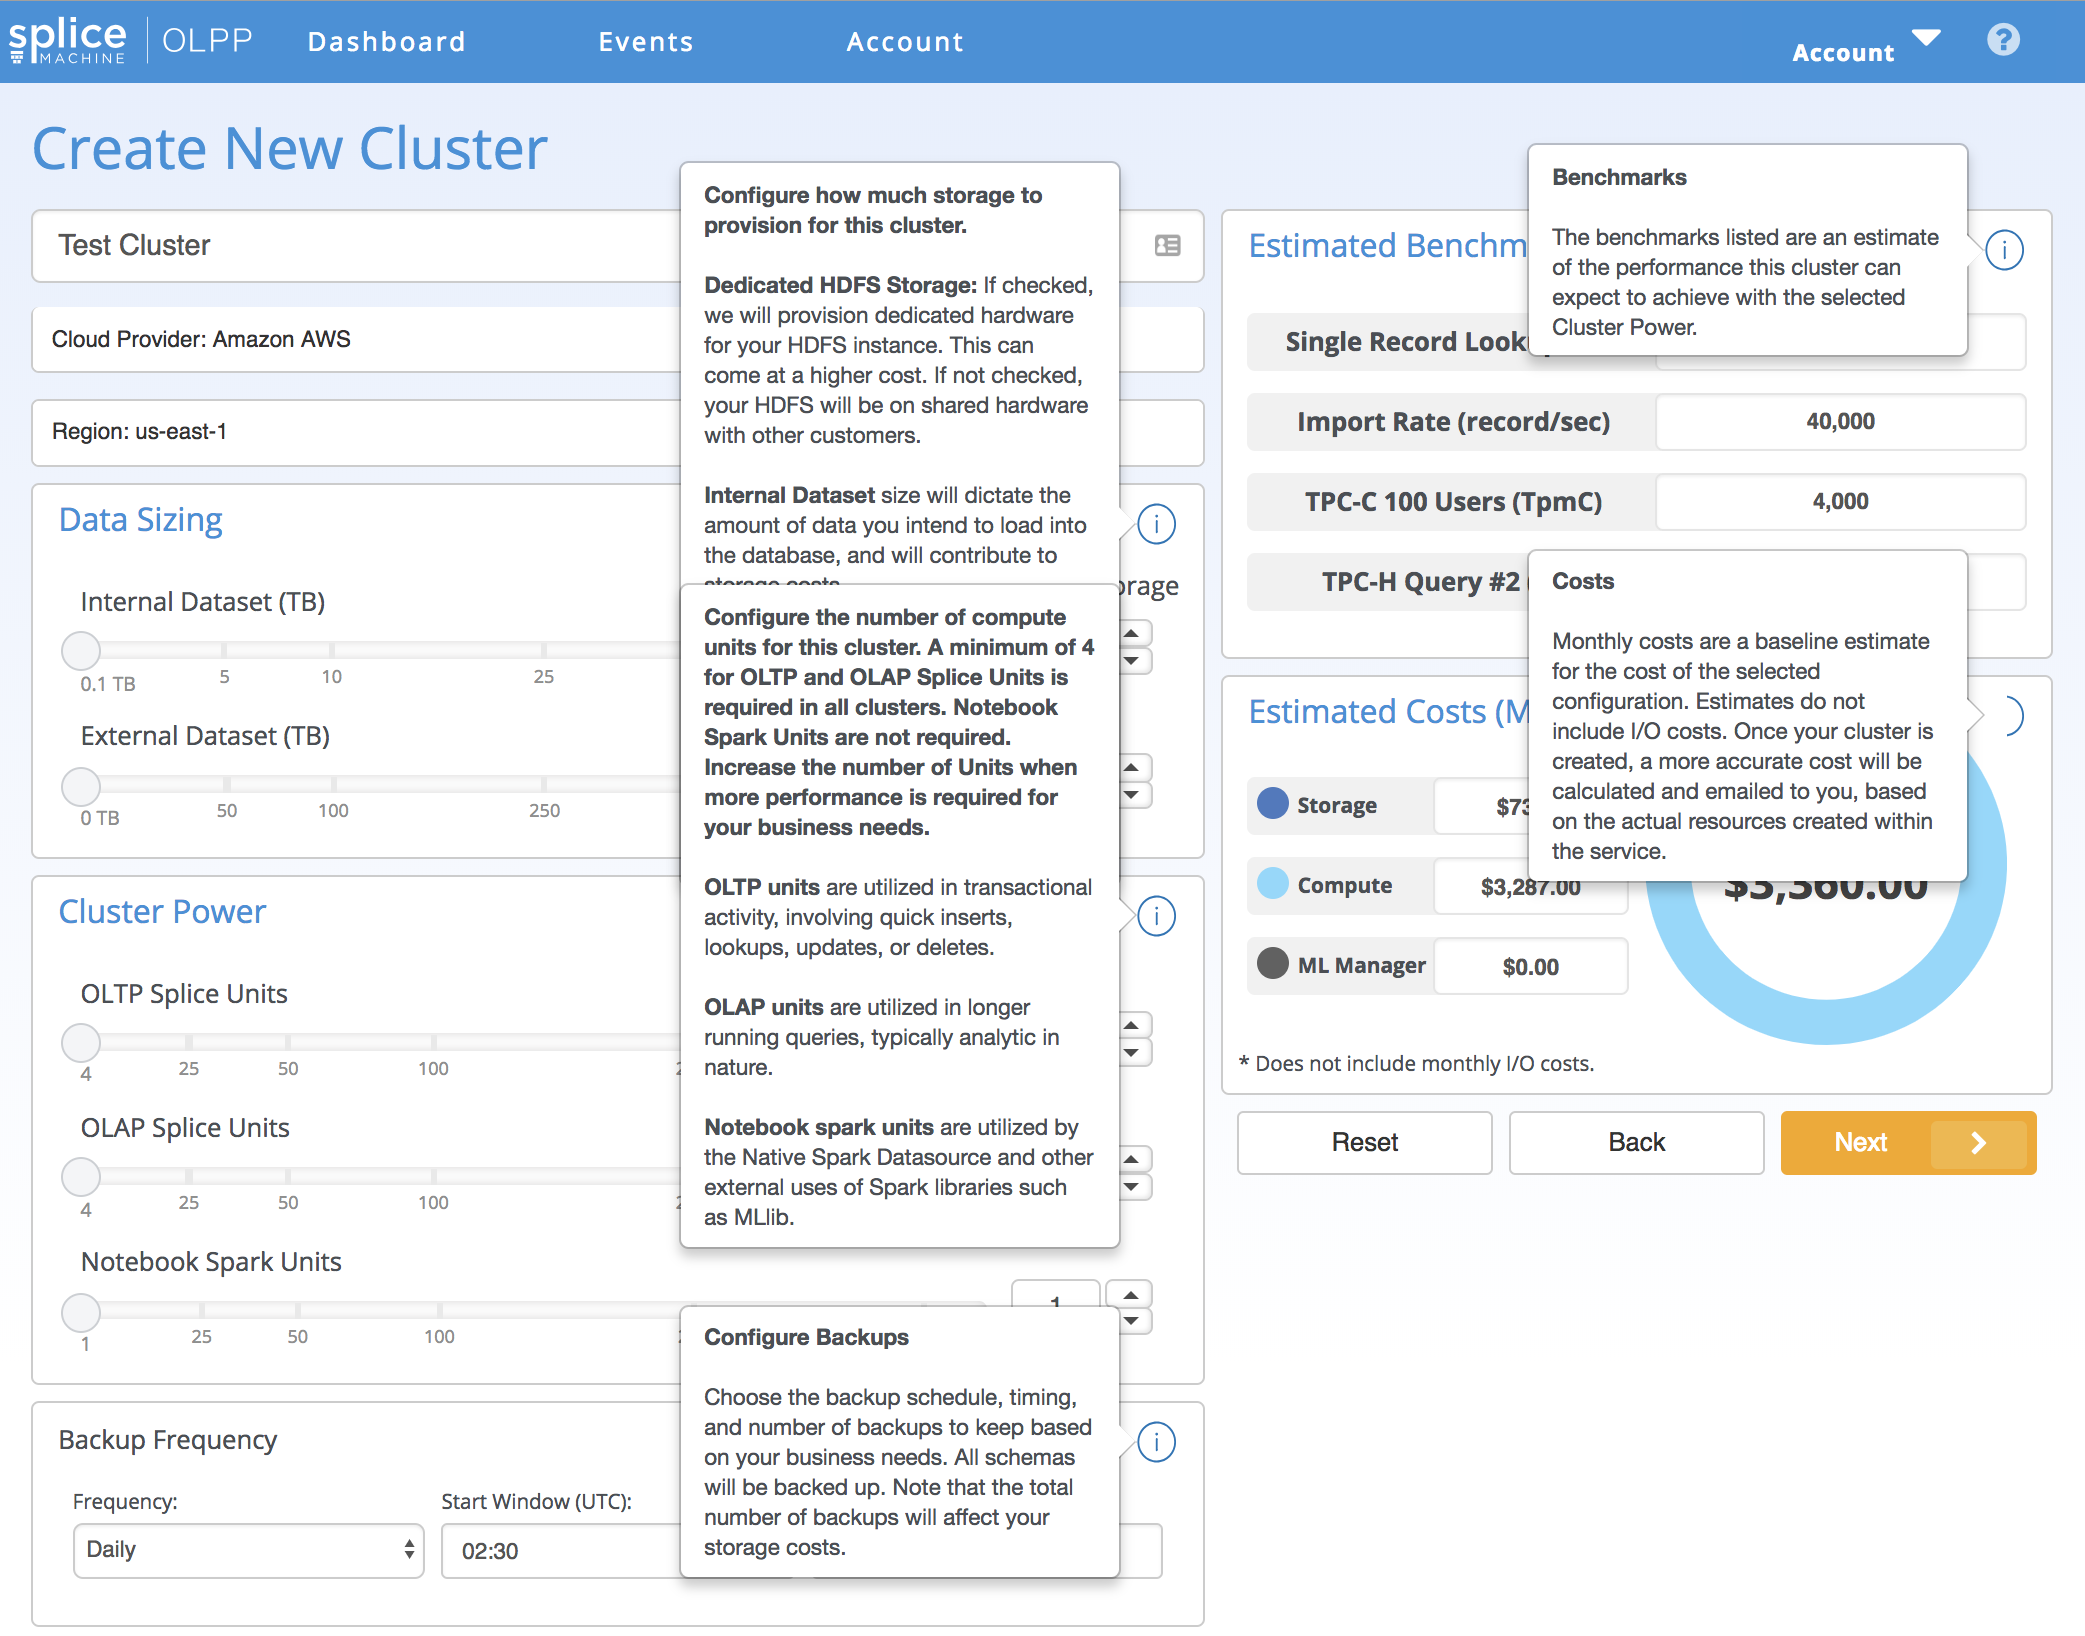
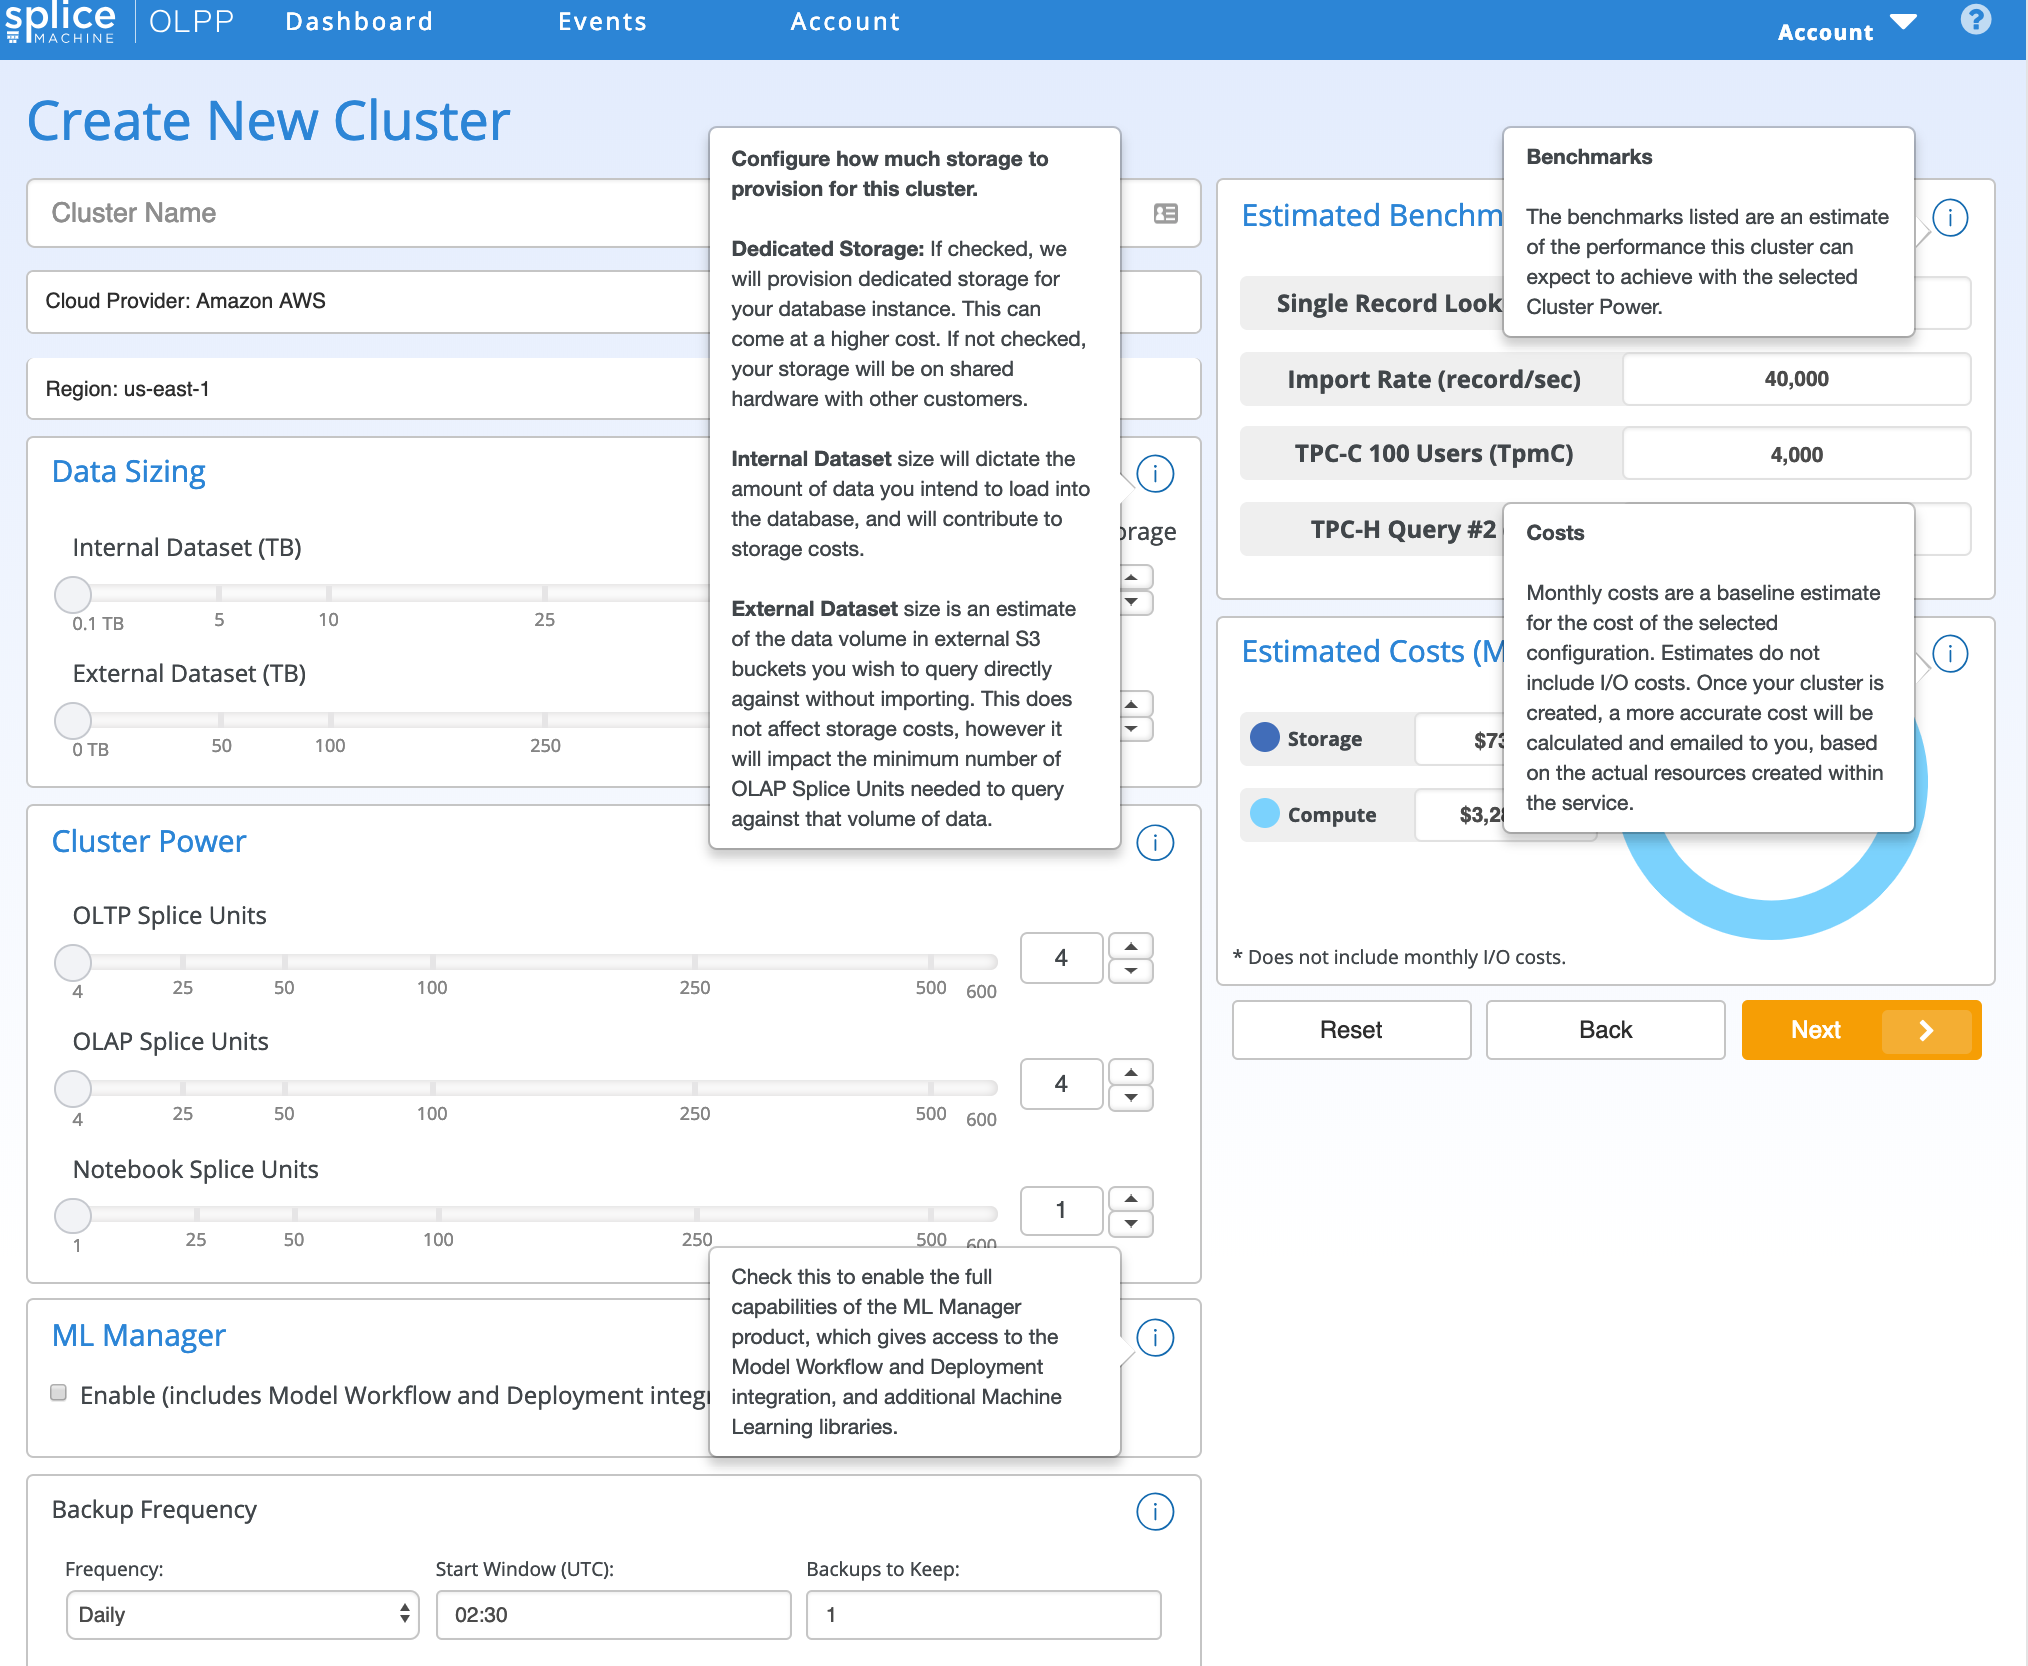
Updated screenshots and descriptions for latest changes; posted to https://docsdev.splicemachine.com/DBAAS-2007/dbaas_cm_intro.html

diff --git a/pages/DBaaS/CloudManager/InitialStartup.md b/pages/DBaaS/CloudManager/InitialStartup.md
@@ -75,75 +75,87 @@ future, so you're not stuck forever with your initial settings.
 {: .noteNote}
 
 <table>
-               <col />
-               <col />
-               <col />
-               <tbody>
-                   <tr>
-                       <td> </td>
-                       <td><code>Cluster Name</code></td>
-                       <td>Supply whatever name you want for your Splice Machine cluster.</td>
-                   </tr>
-                   <tr>
-                       <td> </td>
-                       <td><code>Region</code></td>
-                       <td>You can select in which AWS region your cluster will reside by clicking the previously selected region name, which drops down a list of choices.</td>
-                   </tr>
-                   <tr>
-                       <td rowspan="2" class="ConsoleLink">Data Sizing</td>
-                       <td><code>Internal Dataset (TB)</code></td>
-                       <td>
-                           <p>Move the slider to modify your estimate of how large your database will be.</p>
-                           <p><code>Internal Dataset</code> is the amount of data that you will be storing within your Splice Machine database.</p>
-                       </td>
-                   </tr>
-                   <tr>
-                       <td><code>External Dataset (TB)</code></td>
-                       <td>
-                           <p>Move the slider to modify your estimate of how large your external dataset will be.</p>
-                           <p><code>External Dataset</code> is the amount of data the you will be accessing from external data sources, using features such as external tables and our virtual table interface.</p>
-                       </td>
-                   </tr>
-                   <tr>
-                       <td rowspan="3" class="ConsoleLink">Cluster Power</td>
-                       <td><code>OLTP Splice Units</code></td>
-                       <td>
-                           <p>Move the slider to modify your estimate of how much processing power you need for transactional activity, involving quick inserts, lookups, updates, and deletes. More OLTP units means more region servers in your cluster.</p>
-                       </td>
-                   </tr>
-                   <tr>
-                       <td><code>OLAP Splice Units</code></td>
-                       <td>
-                           <p>Move the slider to modify your estimate of how much processing power you need for running longer queries, typically analytical queries. More OLAP units means more Spark executors.</p>
-                       </td>
-                   </tr>
-                   <tr>
-                       <td><code>Notebook Spark Units</code></td>
-                       <td>
-                           <p>Move the slider to modify your estimate of how many Spark units should be utilized by the Splice Machine Native Spark Datasource and other external uses of Spark libraries, such as MLlib.</p>
-                       </td>
-                   </tr>
-                   <tr>
-                       <td class="ConsoleLink">Backup Frequency</td>
-                       <td><code>Frequency</code></td>
-                       <td>
-                           <p>Select how frequently you want Splice Machine to back up your database. You can select <code>Hourly</code>, <code>Daily</code>, or <code>Weekly</code>; each selection displays additional backup timing and retention options:</p>
-                           <p>Hourly:</p>
-                           <p>
-                               <img src="images/HourlyBackupOptions_450x78.png" class="tableCell450" title="Hourly backup options" style="width: 450;height: 78;" />
-                           </p>
-                           <p>Daily:</p>
-                           <p>
-                               <img src="images/DailyBackupOptions_450x68.png" class="tableCell450" title="Hourly backup options" style="width: 450;height: 68;" />
-                           </p>
-                           <p>Weekly:</p>
-                           <p>
-                               <img src="images/WeeklyBackupOptions_450x67.png" class="tableCell450" title="Hourly backup options" style="width: 450;height: 67;" />
-                           </p>
-                       </td>
-                   </tr>
-               </tbody>
-           </table>
+   <col />
+   <col />
+   <col />
+   <tbody>
+       <tr>
+           <td> </td>
+           <td><code>Cluster Name</code></td>
+           <td>Supply whatever name you want for your Splice Machine cluster.</td>
+       </tr>
+       <tr>
+           <td> </td>
+           <td><code>Region</code></td>
+           <td>You can select in which AWS region your cluster will reside by clicking the previously selected region name, which drops down a list of choices.</td>
+       </tr>
+       <tr>
+           <td rowspan="3" class="ConsoleLink">Data Sizing</td>
+           <td><code>Internal Dataset (TB)</code></td>
+           <td>
+               <p>Move the slider to modify your estimate of how large your database will be.</p>
+               <p><code>Internal Dataset</code> is the amount of data that you will be storing within your Splice Machine database.</p>
+           </td>
+       </tr>
+       <tr>
+           <td><code>Dedicated Storage</code></td>
+           <td>
+               <p>Select this checkbox to have us provision dedicated storage for your database instance, which does add cost.</p>
+               <p>Leave this unselected to have your database instance stored on shared hardware.</p>
+           </td>
+       </tr>
+       <tr>
+           <td><code>External Dataset (TB)</code></td>
+           <td>
+               <p>Move the slider to modify your estimate of how large your external dataset will be.</p>
+               <p><code>External Dataset</code> is the amount of data the you will be accessing from external data sources, using features such as external tables and our virtual table interface.</p>
+           </td>
+       </tr>
+       <tr>
+           <td rowspan="3" class="ConsoleLink">Cluster Power</td>
+           <td><code>OLTP Splice Units</code></td>
+           <td>
+               <p>Move the slider to modify your estimate of how much processing power you need for transactional activity, involving quick inserts, lookups, updates, and deletes. More OLTP units means more region servers in your cluster.</p>
+           </td>
+       </tr>
+       <tr>
+           <td><code>OLAP Splice Units</code></td>
+           <td>
+               <p>Move the slider to modify your estimate of how much processing power you need for running longer queries, typically analytical queries. More OLAP units means more Spark executors.</p>
+           </td>
+       </tr>
+       <tr>
+           <td><code>Notebook Spark Units</code></td>
+           <td>
+               <p>Move the slider to modify your estimate of how many Spark units should be utilized by the Splice Machine Native Spark Datasource and other external uses of Spark libraries, such as MLlib.</p>
+           </td>
+       </tr>
+       <tr>
+           <td class="ConsoleLink">ML Manager</td>
+           <td><code>Enable</code></td>
+           <td>Select this checkbox to enable the Splice Machine ML Manager, which provides access to our Model Workflow and Deployment integration and additional Machine Learning libraries.</td>
+       </tr>
+       <tr>
+           <td class="ConsoleLink">Backup Frequency</td>
+           <td><code>Frequency</code></td>
+           <td>
+               <p>Select how frequently you want Splice Machine to back up your database. You can select <code>Hourly</code>, <code>Daily</code>, or <code>Weekly</code>; each selection displays additional backup timing and retention options:</p>
+               <p>Hourly:</p>
+               <p>
+                   <img src="images/HourlyBackupOptions_450x78.png" class="tableCell450" title="Hourly backup options" style="width: 450;height: 78;" />
+               </p>
+               <p>Daily:</p>
+               <p>
+                   <img src="images/DailyBackupOptions_450x68.png" class="tableCell450" title="Hourly backup options" style="width: 450;height: 68;" />
+               </p>
+               <p>Weekly:</p>
+               <p>
+                   <img src="images/WeeklyBackupOptions_450x67.png" class="tableCell450" title="Hourly backup options" style="width: 450;height: 67;" />
+               </p>
+           </td>
+       </tr>
+   </tbody>
+</table>
 A *Splice Unit* is a measure of processing work; one unit currently
 translates (approximately) to 2 virtual CPUs and 16 GB of memory.
 {: .noteIcon}
